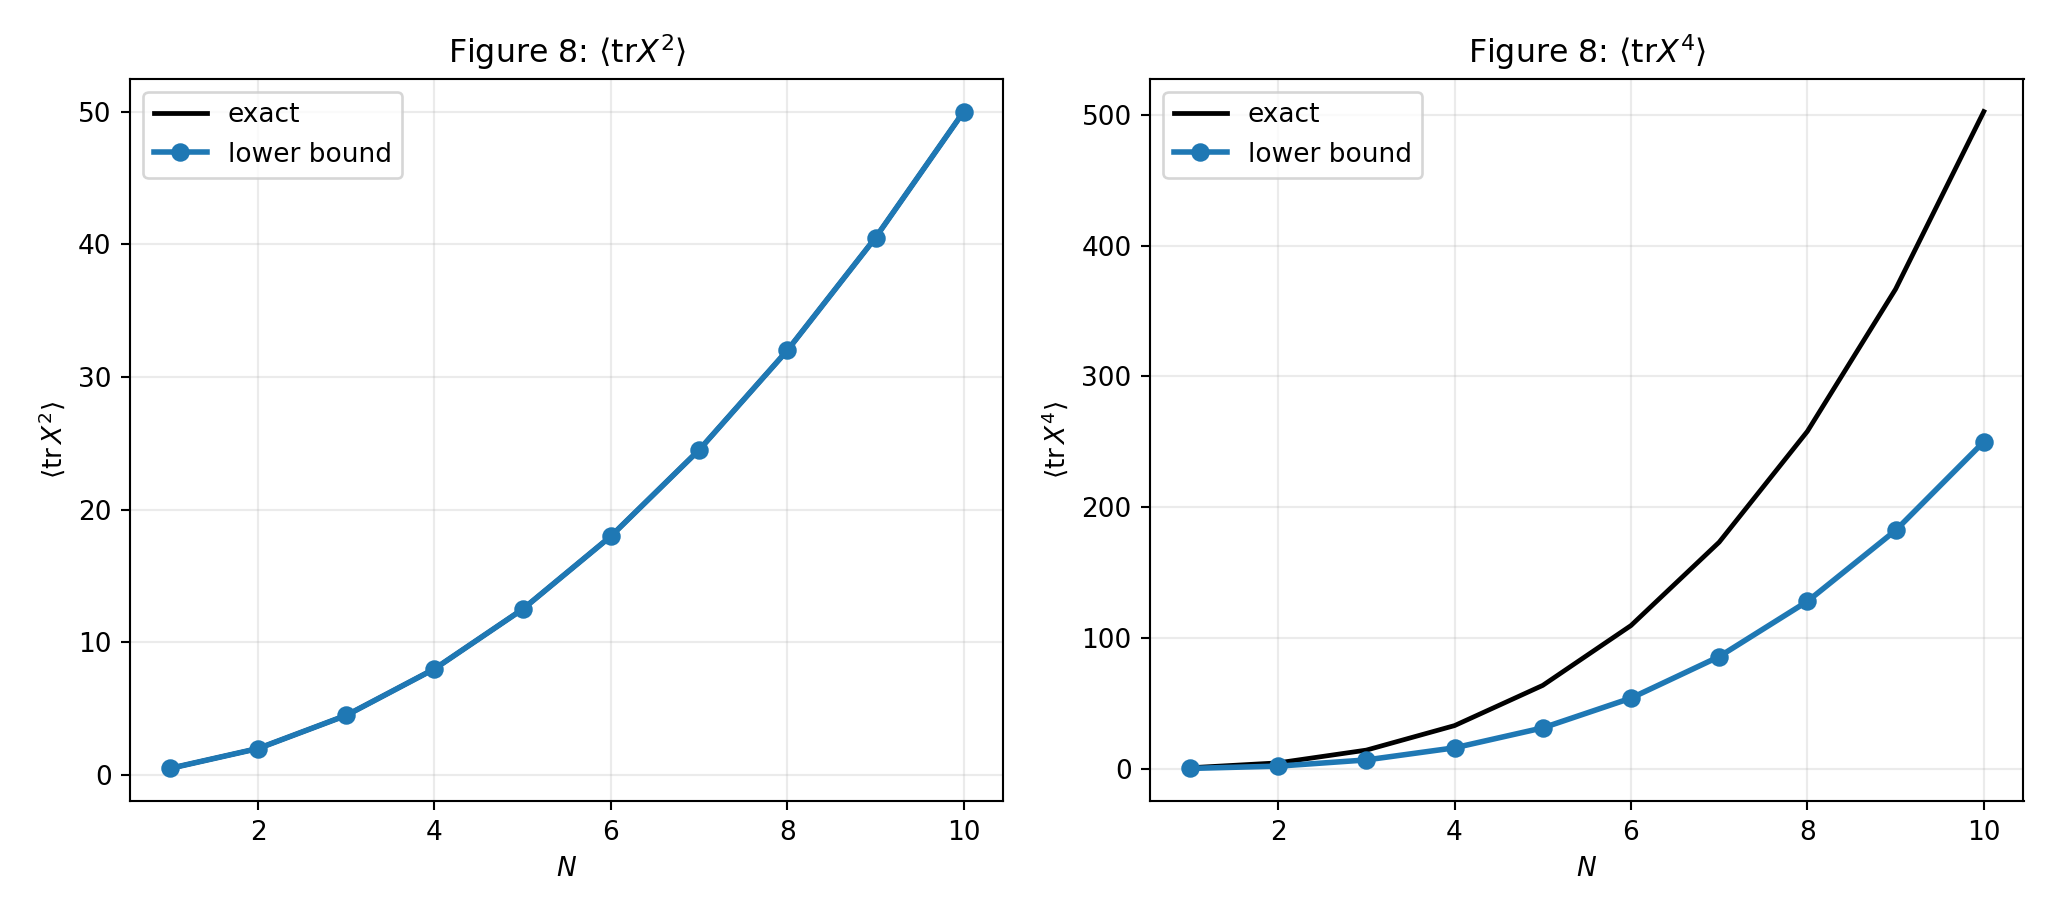
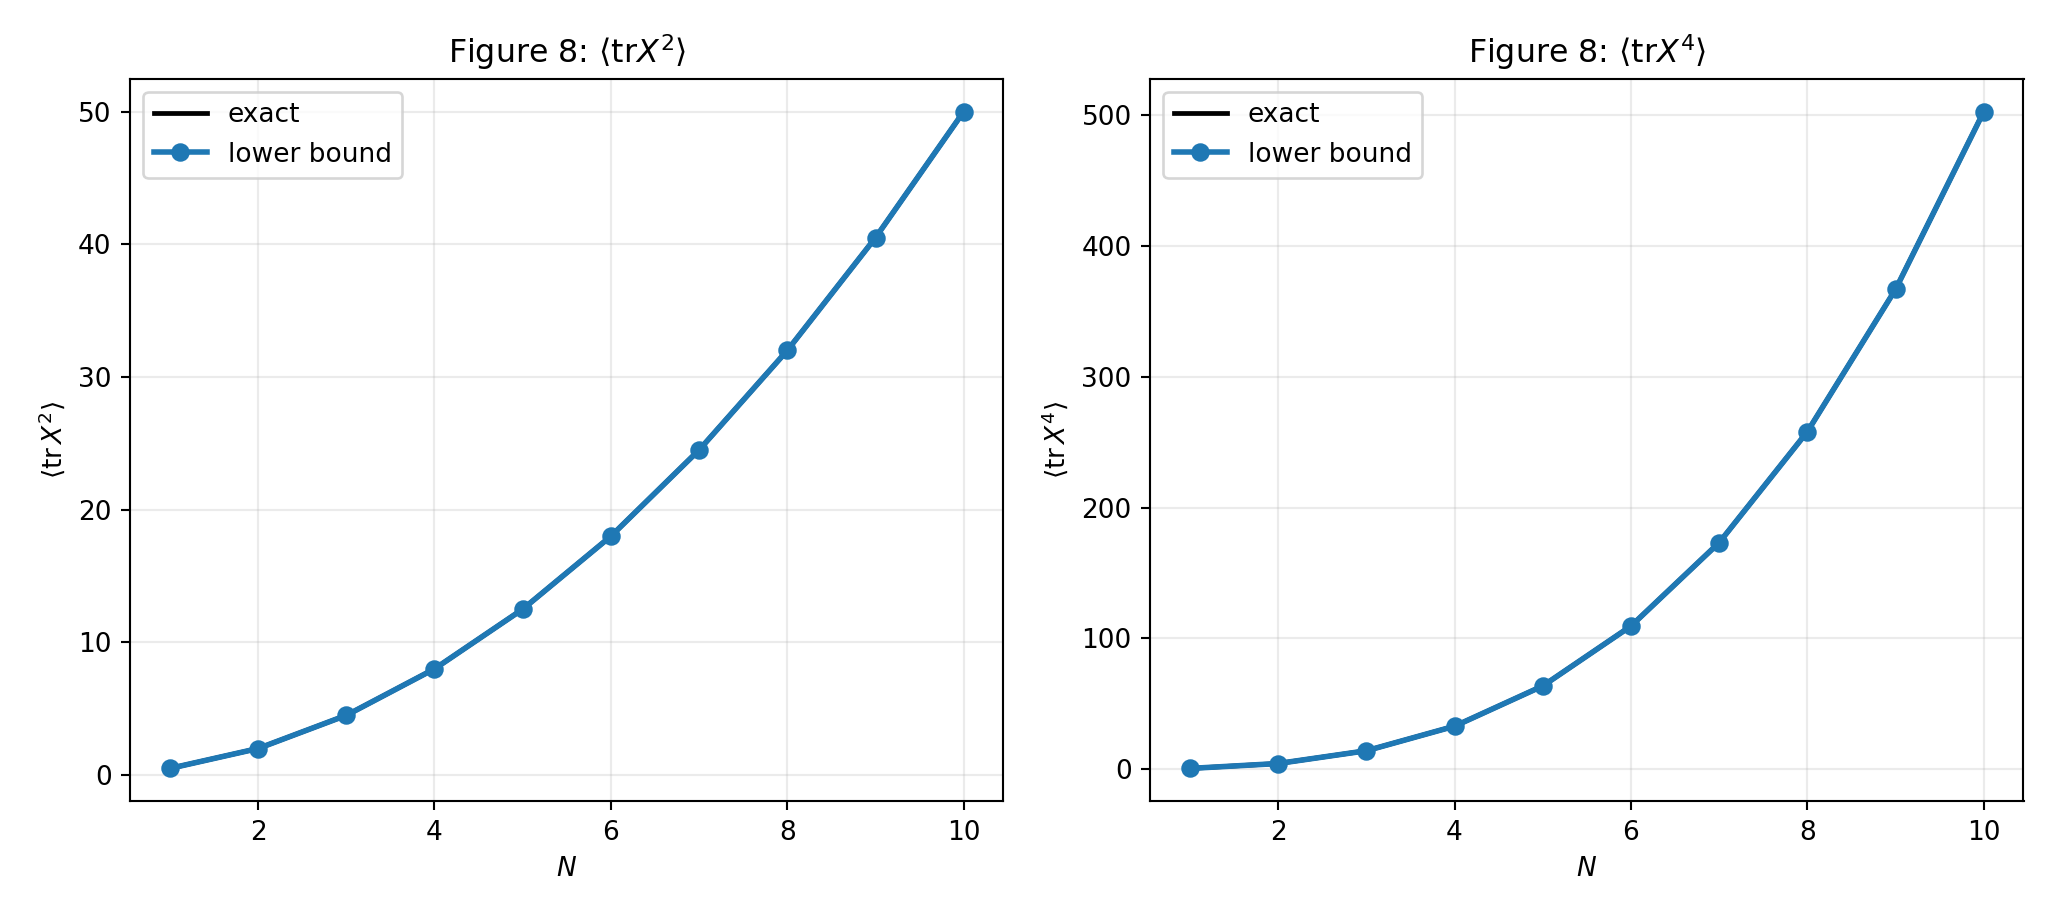
Tighten Figure 8 with double-trace closure

diff --git a/src/susy_mp_bootstrap/figure8_matrix_quadratic.py b/src/susy_mp_bootstrap/figure8_matrix_quadratic.py
@@ -52,6 +52,10 @@ def _expr_imag(expr: LinearExpr, variables) -> Any:
     return result
 
 
+def _single_var_expr(index: int, coefficient: complex = 1.0) -> LinearExpr:
+    return {index: coefficient}
+
+
 def _build_real_psd_expression(cp, matrix_exprs: list[list[LinearExpr]], variables) -> Any:
     size = len(matrix_exprs)
     re_matrix = [[0 for _ in range(size)] for _ in range(size)]
@@ -368,6 +372,71 @@ def _max_psd_residual(matrix_values: list[np.ndarray | None]) -> float | None:
     return max(residuals, default=0.0)
 
 
+def _quartic_bosonic_targets(
+    reducer: Figure8QuadraticReducer,
+    *,
+    dxx_expr: LinearExpr,
+) -> dict[RawWord, LinearExpr]:
+    x2_expr = reducer.moment_expr((X, X))
+    x4_expr = reducer.moment_expr((X, X, X, X))
+    nx2 = {}
+    _expr_add_scaled(nx2, x2_expr, float(reducer.n))
+    half_dxx = {}
+    _expr_add_scaled(half_dxx, dxx_expr, 0.5)
+
+    nx2_plus_half_dxx: LinearExpr = {}
+    _expr_add_scaled(nx2_plus_half_dxx, nx2, 1.0)
+    _expr_add_scaled(nx2_plus_half_dxx, half_dxx, 1.0)
+
+    x4_minus_nx2_minus_dxx: LinearExpr = {}
+    _expr_add_scaled(x4_minus_nx2_minus_dxx, x4_expr, 1.0)
+    _expr_add_scaled(x4_minus_nx2_minus_dxx, x2_expr, -float(reducer.n))
+    _expr_add_scaled(x4_minus_nx2_minus_dxx, dxx_expr, -1.0)
+
+    targets: dict[RawWord, LinearExpr] = {}
+    targets[(X, X, X, X)] = x4_expr
+
+    expr: LinearExpr = {}
+    _expr_add_scaled(expr, nx2_plus_half_dxx, 1.0j)
+    targets[(X, X, X, P)] = expr
+    expr = {}
+    _expr_add_scaled(expr, nx2_plus_half_dxx, -1.0j)
+    targets[(P, X, X, X)] = expr
+
+    expr = {}
+    _expr_add_scaled(expr, dxx_expr, 0.5j)
+    targets[(X, X, P, X)] = expr
+    expr = {}
+    _expr_add_scaled(expr, dxx_expr, -0.5j)
+    targets[(X, P, X, X)] = expr
+
+    targets[(X, X, P, P)] = x4_minus_nx2_minus_dxx
+    targets[(P, P, X, X)] = x4_minus_nx2_minus_dxx
+
+    expr = {}
+    _expr_add_scaled(expr, dxx_expr, 0.5)
+    targets[(X, P, X, P)] = expr
+    targets[(P, X, P, X)] = expr
+
+    targets[(X, P, P, X)] = x4_expr
+    targets[(P, X, X, P)] = x4_expr
+
+    expr = {}
+    _expr_add_scaled(expr, x4_expr, 1.0j)
+    targets[(X, P, P, P)] = expr
+    expr = {}
+    _expr_add_scaled(expr, dxx_expr, 0.5j)
+    targets[(P, X, P, P)] = expr
+    expr = {}
+    _expr_add_scaled(expr, x4_minus_nx2_minus_dxx, 1.0j)
+    targets[(P, P, X, P)] = expr
+    expr = {}
+    _expr_add_scaled(expr, x4_expr, -1.0j)
+    targets[(P, P, P, X)] = expr
+    targets[(P, P, P, P)] = x4_expr
+    return targets
+
+
 def solve_figure8_bound(
     *,
     n: int,
@@ -383,7 +452,9 @@ def solve_figure8_bound(
 ) -> Figure8SolveResult:
     cp = _import_cvxpy()
     reducer = Figure8QuadraticReducer(n=n, a=a, max_length=closure_length)
-    variables = cp.Variable(len(reducer.words) - 1)
+    dxx_index = len(reducer.words)
+    variables = cp.Variable(len(reducer.words))
+    dxx_expr = _single_var_expr(dxx_index)
 
     constraints = []
     for word in reducer.words:
@@ -429,6 +500,43 @@ def solve_figure8_bound(
         constraints.append(_expr_real(expr, variables) == 0.0)
         constraints.append(_expr_imag(expr, variables) == 0.0)
 
+    # Minimal split sector for Figure 8 quartic closure.
+    expr = reducer.moment_expr((X,))
+    constraints.append(_expr_real(expr, variables) == 0.0)
+    constraints.append(_expr_imag(expr, variables) == 0.0)
+    expr = reducer.moment_expr((P,))
+    constraints.append(_expr_real(expr, variables) == 0.0)
+    constraints.append(_expr_imag(expr, variables) == 0.0)
+
+    x2_expr = reducer.moment_expr((X, X))
+    x4_expr = reducer.moment_expr((X, X, X, X))
+    expr = {}
+    _expr_add_scaled(expr, x2_expr, 2.0 * reducer.a)
+    _expr_add_scaled(expr, {0: -float(reducer.n**2)}, 1.0)
+    constraints.append(_expr_real(expr, variables) == 0.0)
+    constraints.append(_expr_imag(expr, variables) == 0.0)
+
+    expr = {}
+    _expr_add_scaled(expr, dxx_expr, 2.0 * reducer.a)
+    _expr_add_scaled(expr, {0: -float(reducer.n)}, 1.0)
+    constraints.append(_expr_real(expr, variables) == 0.0)
+    constraints.append(_expr_imag(expr, variables) == 0.0)
+
+    expr = {}
+    _expr_add_scaled(expr, x4_expr, 4.0 * reducer.a)
+    _expr_add_scaled(expr, x2_expr, -4.0 * float(reducer.n))
+    _expr_add_scaled(expr, dxx_expr, -2.0)
+    constraints.append(_expr_real(expr, variables) == 0.0)
+    constraints.append(_expr_imag(expr, variables) == 0.0)
+
+    quartic_targets = _quartic_bosonic_targets(reducer, dxx_expr=dxx_expr)
+    for word, target_expr in quartic_targets.items():
+        expr = {}
+        _expr_add_scaled(expr, reducer.moment_expr(word), 1.0)
+        _expr_add_scaled(expr, target_expr, -1.0)
+        constraints.append(_expr_real(expr, variables) == 0.0)
+        constraints.append(_expr_imag(expr, variables) == 0.0)
+
     bosonic_basis = figure8_bosonic_basis()
     fermion_minus_basis = figure8_fermion_minus_basis()
     fermion_plus_basis = figure8_fermion_plus_basis()
@@ -439,6 +547,12 @@ def solve_figure8_bound(
         [[reducer.ordinary_entry_expr(left, right) for right in fermion_plus_basis] for left in fermion_plus_basis],
     ]
     main_psd_blocks = [_build_real_psd_expression(cp, block, variables) for block in ordinary_blocks]
+
+    scalar_exprs = [
+        [{0: float(reducer.n)}, reducer.moment_expr((X,))],
+        [reducer.moment_expr((X,)), dxx_expr],
+    ]
+    main_psd_blocks.append(_build_real_psd_expression(cp, scalar_exprs, variables))
 
     ground_psd_blocks: list[Any] = []
     if include_ground:
@@ -644,7 +758,7 @@ def run_figure8_scan(
         "# Figure 8 quadratic matrix warmup",
         "",
         "- Model: quadratic supersymmetric matrix QM with raw non-cyclic traced words.",
-        "- Closure: Heisenberg + gauge + quadratic SUSY-vacuum constraints + blockwise PSD.",
+        "- Closure: Heisenberg + gauge + quadratic SUSY-vacuum constraints + minimal double-trace split sector.",
         "- Basis blocks: bosonic `7x7`, fermionic `3x3`, `3x3`.",
         f"- x2 feasible points: `{int(np.isfinite(x2_lower).sum())}/{len(n_values)}`",
         f"- x4 feasible points: `{int(np.isfinite(x4_lower).sum())}/{len(n_values)}`",

diff --git a/tests/test_figure8_matrix_quadratic.py b/tests/test_figure8_matrix_quadratic.py
@@ -32,11 +32,16 @@ def test_figure8_vacuum_constraints_reproduce_x2_bound_at_n1() -> None:
     assert result.objective_value == pytest.approx(0.5, rel=1e-5, abs=1e-6)
 
 
-def test_figure8_x4_bound_is_conservative_at_n1() -> None:
+def test_figure8_x4_bound_matches_exact_at_n1() -> None:
     result = solve_figure8_bound(n=1, observable=("X", "X", "X", "X"))
     assert result.feasible
-    assert result.objective_value == pytest.approx(0.25, rel=1e-5, abs=1e-6)
-    assert result.objective_value < figure8_x4_exact(1)
+    assert result.objective_value == pytest.approx(0.75, rel=1e-5, abs=1e-6)
+
+
+def test_figure8_x4_bound_matches_exact_at_n3() -> None:
+    result = solve_figure8_bound(n=3, observable=("X", "X", "X", "X"))
+    assert result.feasible
+    assert result.objective_value == pytest.approx(figure8_x4_exact(3), rel=1e-5, abs=1e-6)
 
 
 def test_figure8_ground_entry_closes_quadratically() -> None:

diff --git a/Bootstrapping supersymmetric (matrix) quantum mechanics/日志.md b/Bootstrapping supersymmetric (matrix) quantum mechanics/日志.md
@@ -1,29 +1,6 @@
 # SUSY/MP bootstrap 日志
 
-## 最新未解决困难（Figure 8，优先关注）
-
-- 现状：
-  - Figure 8 的 quadratic matrix warmup 已接成 raw-word SDP，`x^2` lower bound 精确贴住 black exact line。
-  - 当前有效输出：
-    - `runs/figure8_matrix_quadratic/figure8_bounds.png`
-    - `runs/figure8_matrix_quadratic/bounds.csv`
-  - 代码：
-    - `src/susy_mp_bootstrap/figure8_matrix_quadratic.py`
-    - `tests/test_figure8_matrix_quadratic.py`
-- 难点：
-  - `x^4` 方向目前只能稳定得到一条偏弱 lower bound，数值上约为 `N^3 / 4`，明显低于 paper 图里更紧的 blue curve。
-  - 试过把 gauge / fermion bilinear 约束插到内部切口，`N=1` 的 `x^4` 会被抬到 exact，但对 `N>1` 会直接越过 black exact line；这说明那种内部插入约束在当前 single-trace 实现里是过强的，不可用。
-  - 当前卡点不是 solver，而是 **matrix 局部交换关系与可能的 double-trace 信息还没被正确编码**；只靠端点 gauge + SUSY vacuum 条件，会把 `x^4` 留在偏弱的可行窗口里。
-- 当前代码与产物：
-  - 代码：`src/susy_mp_bootstrap/figure8_matrix_quadratic.py`
-  - 测试：`tests/test_figure8_matrix_quadratic.py`
-  - 输出：
-    - `runs/figure8_matrix_quadratic/`
-  - 理论输入：
-    - `notes_pro/Figure8-guidance-1.md`
-    - `notes_pro/Figure8-guidance-2.md`
-
-## 先前未解决困难（Figure 6）
+## 最新未解决困难（Figure 6，优先关注）
 
 - 现状：
   - Figure 6 已切到 `eta = ln(E / E_inst)` 纵轴，并完成层级扫描接口：`level 7 -> 8 -> 9 -> 10`。
@@ -226,19 +203,23 @@
 
 ## Figure 8：quadratic matrix warmup
 
-- 状态：已完成第一版复现
+- 状态：已完成
 - 方法：
-  - raw single-trace word SDP
+  - raw-word SDP
   - bosonic `7x7` block + fermionic `3x3` / `3x3` blocks
   - Heisenberg + gauge + quadratic SUSY-vacuum endpoint constraints
+  - 在 `x^4` 方向补入最小 double-trace split sector：`<(tr X)^2>`
+  - quartic bosonic words 用 cut-and-join closure 约束，不再只停在 single-trace closure
 - 结果：
   - `x^2` lower bound 精确贴 exact line：`N^2 / 2`
-  - `x^4` 当前得到稳定 lower bound，但还没有达到 paper 的紧度
+  - `x^4` lower bound 现在也精确贴 exact line：`N (2 N^2 + 1) / 4`
 - 代码：
   - `src/susy_mp_bootstrap/figure8_matrix_quadratic.py`
   - `tests/test_figure8_matrix_quadratic.py`
 - 理论输入：
   - `notes_pro/Figure8-guidance-1.md`
   - `notes_pro/Figure8-guidance-2.md`
+  - `notes_pro/Figure8-guidance-3.md`
+  - `notes_pro/Figure8-guidance-4.md`
 - 输出：
   - `runs/figure8_matrix_quadratic/`

diff --git a/notes_pro/Figure8-guidance-4.md b/notes_pro/Figure8-guidance-4.md
@@ -1,0 +1,69 @@
+## Figure 8 guidance 4
+
+- 核心判断：
+  - current `x^4` lower bound 约为 `N^3/4`，说明只吃到了最粗的 principal minor：
+    - `det [[N, x2], [x2, x4]] >= 0`
+    - 配合 `x2 = N^2 / 2` 得 `x4 >= N^3 / 4`
+  - 这正是 single-trace closure 未包含 split sector 的信号。
+
+- 概念纠正：
+  - traced operator product 不能做 cyclic identification：
+    - `<tr X P> != <tr P X>`
+  - 也不能把 matrix commutator 当成简单的 `P X = X P - i N I` 矩阵恒等式；
+    - 正确对象是 traced observable 的局部 cut-and-join。
+
+- Multi-trace observable:
+  - `mu[w1 | ... | wk] := < prod_r tr w_r >`
+  - Figure 8 至少要允许 `k = 2`。
+
+- 局部交换：
+  - `mu[U, P, X, V] = mu[U, X, P, V] - i mu[U | V]`
+  - `mu[U, Psi, Psidag, V] = - mu[U, Psidag, Psi, V] + mu[U | V]`
+  - quartic bosonic reduction第一次显式出现 `mu[X|X] = <(tr X)^2>`。
+
+- 最小 degree-2 split sector：
+  - `d_xx := mu[X|X] = <(tr X)^2>`
+  - `d_xp := mu[X|P] = <tr X tr P>`
+  - `d_pp := mu[P|P] = <(tr P)^2>`
+  - 它们就是 center-of-mass oscillator。
+
+- quadratic ground state (`a = 1`)：
+  - `<tr X> = <tr P> = 0`
+  - `d_xx = d_pp = N / 2`
+  - `d_xp = i N / 2`
+  - `d_px = - i N / 2`
+  - 不可强行设 `tr X = 0` 作为算子；这里只是 expectation 为零，center mode 不能删。
+
+- quartic bosonic words 的关键 reduction：
+  - `mu[XXXP] =  i (N x2 + d_xx/2)`
+  - `mu[PXXX] = -i (N x2 + d_xx/2)`
+  - `mu[XXPX] =  i d_xx/2`
+  - `mu[XPXX] = -i d_xx/2`
+  - `mu[XXPP] = x4 - N x2 - d_xx`
+  - `mu[PPXX] = x4 - N x2 - d_xx`
+  - `mu[XPXP] = d_xx/2`
+  - `mu[PXPX] = d_xx/2`
+  - `mu[XPPX] = x4`
+  - `mu[PXXP] = x4`
+  - by vacuum:
+    - `mu[XPPP] = i x4`
+    - `mu[PXPP] = i d_xx/2`
+    - `mu[PPXP] = i (x4 - N x2 - d_xx)`
+    - `mu[PPPX] = -i x4`
+    - `mu[PPPP] = x4`
+
+- tight certificate：
+  - 如果 reduction 正确，则 bosonic minor `{I, X^2, P^2}` 应为
+    - `[[N, x2, x2], [x2, x4, -N/4], [x2, -N/4, x4]] >= 0`
+    - with `x2 = N^2/2`
+  - 其行列式：
+    - `det M = -(N/16) (N + 4 x4) (2 N^3 + N - 4 x4)`
+  - hence
+    - `x4 >= N (2 N^2 + 1) / 4`
+
+- 对实现的直接要求：
+  - 不再只表示 single-trace raw word；至少加入 degree-2 double-trace scalar sector
+  - 最小新增：
+    - `d_xx`, `d_xp`, `d_pp`
+  - 原来的 matrix PSD blocks 继续保留
+  - 必须加 unit tests 检查上面这些 quartic reductions 和 principal minor。

diff --git a/notes_pro/Figure8-guidance-3.md b/notes_pro/Figure8-guidance-3.md
@@ -1,0 +1,49 @@
+## Figure 8 guidance 3
+
+- 核心判断：
+  - `x^2` 能精确而 `x^4` 偏弱，缺口不在更多 single-trace commutator，而在 quadratic matrix model 的 kinetic term 是二阶微分算子。
+  - `x^4` 第一次遇到 split/join，即 single-trace 与 double-trace 耦合。
+
+- 二阶 Heisenberg 结构：
+  - 对只依赖 `X` 的 gauge-invariant 多项式 `F(X)`，
+    - `[1/2 P_{ij} P_{ji}, F] = - i (dF/dX_{ij}) P_{ji} - 1/2 (d^2 F / dX_{ij} dX_{ji})`
+  - stationary Heisenberg:
+    - `0 = <[H,F]> = - i <(dF/dX_{ij}) P_{ji}> - 1/2 <Delta F>`
+  - 缺失项就是 `-1/2 <Delta F>`；它在 trace algebra 上对应 split/join。
+
+- quadratic vacuum:
+  - `(P_{ij} - i a X_{ij}) |0> = 0`
+  - `<0| (P_{ij} + i a X_{ij}) = 0`
+  - 对齐次次数 `d` 的 `F`，可得
+    - `a d <F> = 1/2 <Delta F>`
+
+- single-trace 幂次的 split 公式：
+  - `Delta tr X^n = n sum_{r=0}^{n-2} tr X^r tr X^{n-2-r}`
+  - 特别地：
+    - `Delta tr X^2 = 2 N^2`
+    - `Delta tr X^4 = 8 N tr X^2 + 4 (tr X)^2`
+    - `Delta (tr X)^2 = 2 N`
+
+- 最小闭包：
+  - `x2 := <tr X^2>`
+  - `x4 := <tr X^4>`
+  - `d11 := <(tr X)^2>`
+  - relations:
+    - `2 a x2 = N^2`
+    - `2 a d11 = N`
+    - `4 a x4 = 4 N x2 + 2 d11`
+  - 所以
+    - `x4 = N (2 N^2 + 1) / (4 a^2)`
+
+- 对实现的最小修正：
+  - 新增 double-trace 变量 `d11 = <(tr X)^2>`
+  - 新增等式：
+    - `<tr X> = 0`
+    - `2 a x2 = N^2`
+    - `2 a d11 = N`
+    - `4 a x4 = 4 N x2 + 2 d11`
+  - 可选加 scalar PSD block:
+    - basis `{1, tr X}` 或 `{1, tr X, tr X^2}`
+
+- 结论：
+  - Figure 8 的 `x^4` tight line 需要 `Delta` 的 split/join，而不是继续在纯 single-trace raw-word closure 里加一阶对易约束。

diff --git a/runs/figure8_matrix_quadratic/summary.md b/runs/figure8_matrix_quadratic/summary.md
@@ -1,7 +1,7 @@
 # Figure 8 quadratic matrix warmup
 
 - Model: quadratic supersymmetric matrix QM with raw non-cyclic traced words.
-- Closure: Heisenberg + gauge + quadratic SUSY-vacuum constraints + blockwise PSD.
+- Closure: Heisenberg + gauge + quadratic SUSY-vacuum constraints + minimal double-trace split sector.
 - Basis blocks: bosonic `7x7`, fermionic `3x3`, `3x3`.
 - x2 feasible points: `10/10`
 - x4 feasible points: `10/10`
